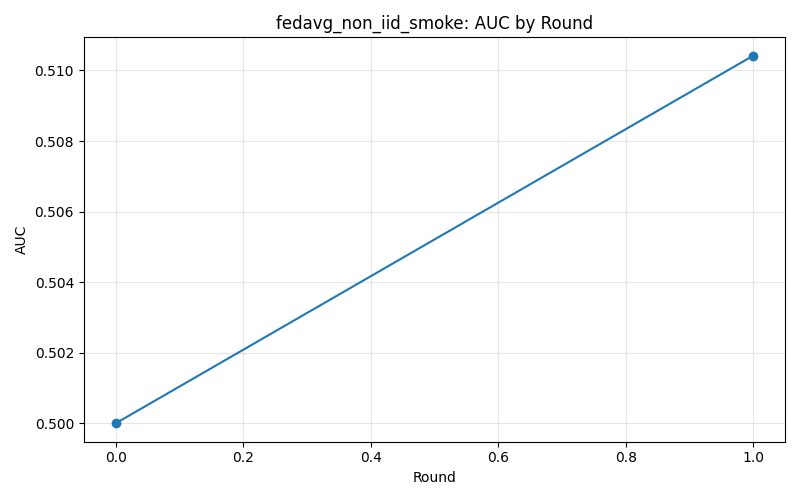
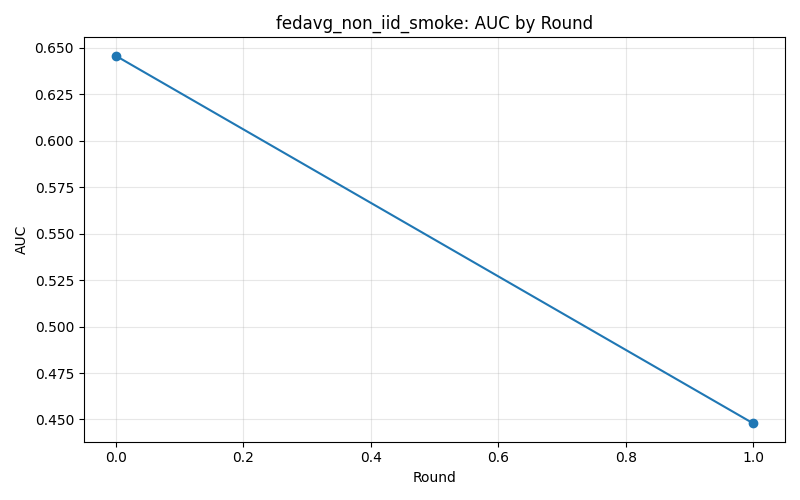
feat: v1.2 clinical calibration (focal loss + specificity-constrained threshold tuning)

diff --git a/src/train_centralized.py b/src/train_centralized.py
@@ -12,6 +12,7 @@ from torch.utils.data import DataLoader
 
 from .dataset import compute_class_weights, load_datasets
 from .evaluate import collect_predictions, evaluate_from_predictions, tune_threshold
+from .losses import build_train_criterion
 from .model import build_model
 from .utils import make_output_paths, plot_metric, save_dataframe, save_json, set_seed
 from .utils import load_yaml as load_cfg
@@ -78,13 +79,24 @@ def main() -> None:
     threshold_min = float(cfg.get("threshold_min", 0.1))
     threshold_max = float(cfg.get("threshold_max", 0.9))
     threshold_step = float(cfg.get("threshold_step", 0.02))
+    min_specificity_cfg = cfg.get("min_specificity")
+    min_specificity = float(min_specificity_cfg) if min_specificity_cfg is not None else None
+    loss_name = str(cfg.get("loss_name", "cross_entropy"))
+    focal_gamma = float(cfg.get("focal_gamma", 2.0))
 
     class_weights = None
     if use_class_weights:
         class_weights = compute_class_weights(train_ds, num_classes=int(cfg.get("num_classes", 2))).to(device)
         print(f"Using class weights: {class_weights.detach().cpu().tolist()}")
+    print(f"Train loss: {loss_name} (focal_gamma={focal_gamma:.2f})")
+    if min_specificity is not None:
+        print(f"Clinical threshold target: specificity >= {min_specificity:.2f}")
 
-    criterion = nn.CrossEntropyLoss(weight=class_weights)
+    criterion = build_train_criterion(
+        loss_name=loss_name,
+        class_weights=class_weights,
+        focal_gamma=focal_gamma,
+    )
     eval_criterion = nn.CrossEntropyLoss()
     optimizer = torch.optim.Adam(
         model.parameters(),
@@ -113,6 +125,7 @@ def main() -> None:
                 threshold_min=threshold_min,
                 threshold_max=threshold_max,
                 threshold_step=threshold_step,
+                min_specificity=min_specificity,
                 default_threshold=0.5,
             )
         else:
@@ -141,7 +154,8 @@ def main() -> None:
         print(
             f"Epoch {epoch}/{epochs} | train_loss={train_loss:.4f} "
             f"val_loss={val_loss:.4f} auc={val_metrics['auc']:.4f} "
-            f"bacc={val_metrics['balanced_accuracy']:.4f} thr={val_metrics['threshold']:.2f}"
+            f"bacc={val_metrics['balanced_accuracy']:.4f} "
+            f"spec={val_metrics['specificity']:.4f} thr={val_metrics['threshold']:.2f}"
         )
 
     elapsed = perf_counter() - start
@@ -164,9 +178,12 @@ def main() -> None:
         "method": "centralized",
         "epochs": epochs,
         "use_class_weights": use_class_weights,
+        "loss_name": loss_name,
+        "focal_gamma": focal_gamma,
         "threshold_tuning": threshold_tuning,
         "selection_metric": selection_metric,
         "threshold_metric": threshold_metric,
+        "min_specificity": min_specificity,
         "best_selection_score": float(best_score),
         "best_threshold": float(best_threshold),
         "elapsed_seconds": elapsed,

diff --git a/src/fl_server.py b/src/fl_server.py
@@ -74,6 +74,10 @@ def main() -> None:
     best_auc = float("-inf")
     best_selection_score = float("-inf")
     best_threshold = 0.5
+    min_specificity_cfg = cfg.get("min_specificity")
+    min_specificity = float(min_specificity_cfg) if min_specificity_cfg is not None else None
+    loss_name = str(cfg.get("loss_name", "cross_entropy"))
+    focal_gamma = float(cfg.get("focal_gamma", 2.0))
     best_ckpt = paths.checkpoints_dir / f"{exp_name}_best.pt"
     clinic_csv = paths.metrics_dir / f"{exp_name}_clinic_summary.csv"
     clinic_plot = paths.plots_dir / f"{exp_name}_clinic_distribution.png"
@@ -85,6 +89,9 @@ def main() -> None:
             f"  - {row.clinic_name}: n={row.num_samples}, "
             f"NORMAL={row.normal_count}, PNEUMONIA={row.pneumonia_count}"
         )
+    print(f"Train loss: {loss_name} (focal_gamma={focal_gamma:.2f})")
+    if min_specificity is not None:
+        print(f"Clinical threshold target: specificity >= {min_specificity:.2f}")
 
     def client_fn(cid: str):
         cid_key = str(cid)
@@ -130,6 +137,7 @@ def main() -> None:
                 threshold_min=float(cfg.get("threshold_min", 0.1)),
                 threshold_max=float(cfg.get("threshold_max", 0.9)),
                 threshold_step=float(cfg.get("threshold_step", 0.02)),
+                min_specificity=min_specificity,
                 default_threshold=0.5,
             )
         else:
@@ -145,6 +153,7 @@ def main() -> None:
             "val_loss": val_loss,
             "val_auc": float(val_metrics.get("auc", float("nan"))),
             "val_balanced_accuracy": float(val_metrics.get("balanced_accuracy", float("nan"))),
+            "val_specificity": float(val_metrics.get("specificity", float("nan"))),
             **metrics,
         }
         round_metrics.append(row)
@@ -185,9 +194,12 @@ def main() -> None:
         "method": cfg.get("method", "fedavg"),
         "num_clients": num_clients,
         "use_class_weights": bool(cfg.get("use_class_weights", True)),
+        "loss_name": loss_name,
+        "focal_gamma": focal_gamma,
         "threshold_tuning": bool(cfg.get("threshold_tuning", True)),
         "selection_metric": str(cfg.get("selection_metric", "balanced_accuracy")),
         "threshold_metric": str(cfg.get("threshold_metric", "balanced_accuracy")),
+        "min_specificity": min_specificity,
         "best_selection_score": float(best_selection_score),
         "best_threshold": float(best_threshold),
         "clinic_names": clinic_names,

diff --git a/src/evaluate.py b/src/evaluate.py
@@ -99,6 +99,7 @@ def tune_threshold(
     threshold_min: float = 0.1,
     threshold_max: float = 0.9,
     threshold_step: float = 0.02,
+    min_specificity: float | None = None,
     default_threshold: float = 0.5,
 ) -> float:
     if y_true.size == 0:
@@ -110,14 +111,47 @@ def tune_threshold(
 
     best_threshold = float(default_threshold)
     best_score = float("-inf")
+
+    feasible_threshold = None
+    feasible_score = float("-inf")
+
+    relaxed_threshold = None
+    relaxed_specificity = float("-inf")
+    relaxed_score = float("-inf")
+
     for thr in thresholds:
         metrics = binary_classification_metrics(y_true=y_true, y_prob=y_prob, threshold=float(thr))
         score = metrics.get(metric, float("nan"))
         if np.isnan(score):
             continue
-        if score > best_score:
-            best_score = float(score)
-            best_threshold = float(thr)
+        specificity = float(metrics.get("specificity", float("nan")))
+
+        if min_specificity is not None:
+            if not np.isnan(specificity) and specificity >= float(min_specificity):
+                if score > feasible_score:
+                    feasible_score = float(score)
+                    feasible_threshold = float(thr)
+
+            # If target specificity is not reachable, pick the threshold with the
+            # highest specificity, then highest metric score as tiebreak.
+            if not np.isnan(specificity) and (
+                specificity > relaxed_specificity or (specificity == relaxed_specificity and score > relaxed_score)
+            ):
+                relaxed_specificity = specificity
+                relaxed_score = float(score)
+                relaxed_threshold = float(thr)
+        else:
+            if score > best_score:
+                best_score = float(score)
+                best_threshold = float(thr)
+
+    if min_specificity is not None:
+        if feasible_threshold is not None:
+            return feasible_threshold
+        if relaxed_threshold is not None:
+            return relaxed_threshold
+        return float(default_threshold)
+
     return best_threshold
 
 

diff --git a/src/losses.py b/src/losses.py
@@ -1,0 +1,39 @@
+from __future__ import annotations
+
+import torch
+import torch.nn.functional as F
+from torch import nn
+
+
+class FocalLoss(nn.Module):
+    def __init__(self, gamma: float = 2.0, class_weights: torch.Tensor | None = None) -> None:
+        super().__init__()
+        self.gamma = float(gamma)
+        if class_weights is None:
+            self.register_buffer("class_weights", torch.tensor([], dtype=torch.float32))
+        else:
+            self.register_buffer("class_weights", class_weights.float())
+
+    def forward(self, logits: torch.Tensor, targets: torch.Tensor) -> torch.Tensor:
+        ce = F.cross_entropy(logits, targets, reduction="none")
+        pt = torch.exp(-ce).clamp(min=1e-8, max=1.0)
+        loss = ((1.0 - pt) ** self.gamma) * ce
+
+        if self.class_weights.numel() > 0:
+            alpha = self.class_weights[targets]
+            loss = loss * alpha
+
+        return loss.mean()
+
+
+def build_train_criterion(
+    loss_name: str,
+    class_weights: torch.Tensor | None = None,
+    focal_gamma: float = 2.0,
+) -> nn.Module:
+    name = str(loss_name).lower()
+    if name in {"ce", "cross_entropy", "crossentropy"}:
+        return nn.CrossEntropyLoss(weight=class_weights)
+    if name == "focal":
+        return FocalLoss(gamma=focal_gamma, class_weights=class_weights)
+    raise ValueError(f"Unsupported loss_name='{loss_name}'. Use 'cross_entropy' or 'focal'.")

diff --git a/src/fl_client.py b/src/fl_client.py
@@ -9,6 +9,7 @@ from torch.utils.data import DataLoader, Dataset
 
 from .dataset import compute_class_weights
 from .evaluate import evaluate_model
+from .losses import build_train_criterion
 from .model import build_model
 from .utils import get_model_parameters, set_model_parameters
 
@@ -47,12 +48,18 @@ class FedMedClient(fl.client.NumPyClient):
         )
 
         use_class_weights = bool(cfg.get("use_class_weights", True))
+        loss_name = str(cfg.get("loss_name", "cross_entropy"))
+        focal_gamma = float(cfg.get("focal_gamma", 2.0))
         class_weights = None
         if use_class_weights:
             class_weights = compute_class_weights(train_dataset, num_classes=int(cfg.get("num_classes", 2))).to(
                 self.device
             )
-        self.criterion = nn.CrossEntropyLoss(weight=class_weights)
+        self.criterion = build_train_criterion(
+            loss_name=loss_name,
+            class_weights=class_weights,
+            focal_gamma=focal_gamma,
+        )
         self.eval_criterion = nn.CrossEntropyLoss()
 
     def get_parameters(self, config):

diff --git a/src/build_report.py b/src/build_report.py
@@ -144,6 +144,8 @@ Project story: **3 clinics train one shared model while raw patient images never
 ## 3. Experimental Setup
 - Model: `{centralized_cfg.get("model_name", "resnet18")}`
 - Input size: `{centralized_cfg.get("image_size", 224)}`
+- Loss: `{centralized_cfg.get("loss_name", "cross_entropy")}` (focal_gamma=`{centralized_cfg.get("focal_gamma", "n/a")}`)
+- Threshold target (specificity): `{centralized_cfg.get("min_specificity", "none")}`
 - Clients: `{fedavg_cfg.get("num_clients", 3)}`
 - FedAvg rounds/local_epochs: `{fedavg_cfg.get("rounds", 'n/a')}` / `{fedavg_cfg.get("local_epochs", 'n/a')}`
 - FedProx rounds/local_epochs/mu: `{fedprox_cfg.get("rounds", 'n/a')}` / `{fedprox_cfg.get("local_epochs", 'n/a')}` / `{fedprox_cfg.get("prox_mu", 'n/a')}`

diff --git a/README.md b/README.md
@@ -17,7 +17,9 @@ Default clinic setup (3 virtual hospitals):
 - End-to-end runnable pipeline
 - Reproducible configs and scripts
 - Saved metrics/plots/checkpoints
-- Calibration update: class-weighted training + validation threshold tuning
+- Calibration update:
+  - class-weighted/focal training for imbalance
+  - validation threshold tuning with optional specificity target
 - Final comparison table (`centralized vs fedavg vs fedprox`)
 - Auto-generated technical report
 
@@ -47,6 +49,7 @@ See [CHANGELOG.md](CHANGELOG.md) for recent updates.
 │   ├── fedprox_sweep.py
 │   ├── fl_client.py
 │   ├── fl_server.py
+│   ├── losses.py
 │   ├── model.py
 │   ├── strategies.py
 │   ├── train_centralized.py
@@ -134,6 +137,13 @@ bash scripts/run_fedprox_sweep.sh
 - Confusion stats (TP/TN/FP/FN)
 - Selected classification threshold
 - Training time / communication rounds
+
+## Clinical Calibration Controls
+
+All are configurable in YAML:
+- `loss_name`: `cross_entropy` or `focal`
+- `focal_gamma`: focusing parameter for focal loss
+- `min_specificity`: optional threshold target during validation-based threshold tuning
 
 ## Notes
 

diff --git a/REPORT.md b/REPORT.md
@@ -1,6 +1,6 @@
 # Federated Learning for Medical Imaging - Technical Report
 
-Generated: 2026-03-08 18:49:16
+Generated: 2026-03-10 21:28:49
 
 ## 1. Problem
 We evaluate whether chest X-ray classification can be trained in a privacy-preserving setup where data remains local at each clinic.
@@ -15,6 +15,8 @@ Project story: **3 clinics train one shared model while raw patient images never
 ## 3. Experimental Setup
 - Model: `resnet18`
 - Input size: `224`
+- Loss: `focal` (focal_gamma=`2.0`)
+- Threshold target (specificity): `0.4`
 - Clients: `3`
 - FedAvg rounds/local_epochs: `3` / `1`
 - FedProx rounds/local_epochs/mu: `3` / `1` / `0.01`
@@ -51,6 +53,7 @@ Project story: **3 clinics train one shared model while raw patient images never
 - `results/plots/fedavg_non_iid_auc_by_round.png`
 - `results/plots/fedavg_non_iid_smoke_auc_by_round.png`
 - `results/plots/fedprox_non_iid_auc_by_round.png`
+- `results/plots/fedprox_non_iid_smoke_auc_by_round.png`
 
 ## 5. Optional FedProx Sweep
 FedProx sweep not found. Run `bash scripts/run_fedprox_sweep.sh` (optional).

diff --git a/CHANGELOG.md b/CHANGELOG.md
@@ -1,5 +1,25 @@
 # Changelog
 
+## v1.2.0 - Clinical Calibration Update
+
+### Added
+- Clinical threshold selection with a specificity target (`min_specificity`).
+- Imbalance-aware training loss selection via config:
+  - `loss_name: cross_entropy`
+  - `loss_name: focal` with `focal_gamma`
+- Shared training-loss configuration across centralized and federated pipelines.
+
+### Improved
+- Threshold tuning now first searches for thresholds that satisfy the specificity target,
+  then falls back to the best-specificity threshold if the target is unreachable.
+- Training logs now surface specificity alongside AUC/balanced accuracy.
+
+### Notes
+- New config keys:
+  - `loss_name`
+  - `focal_gamma`
+  - `min_specificity`
+
 ## v1.1.0 - Calibration Update
 
 ### Added
